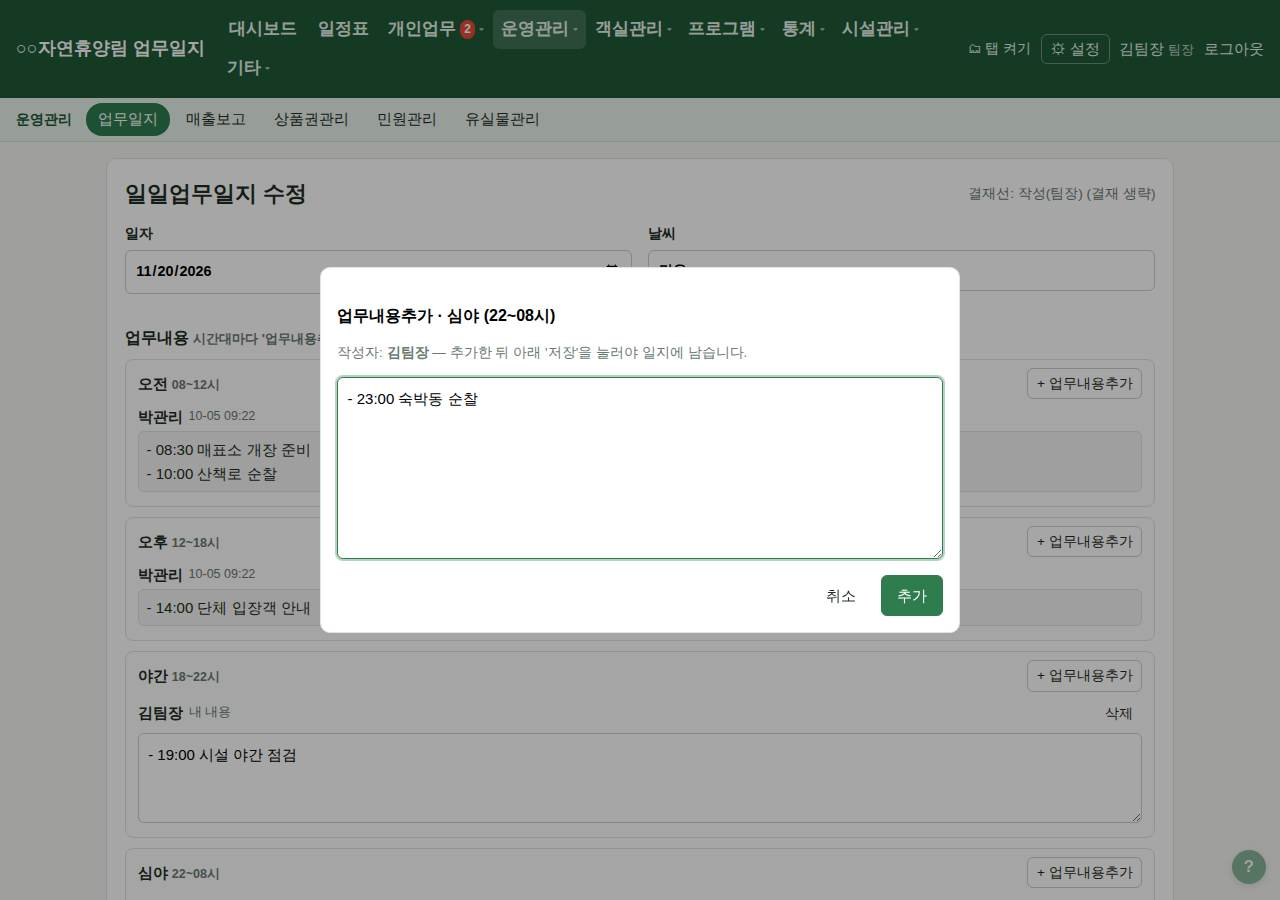
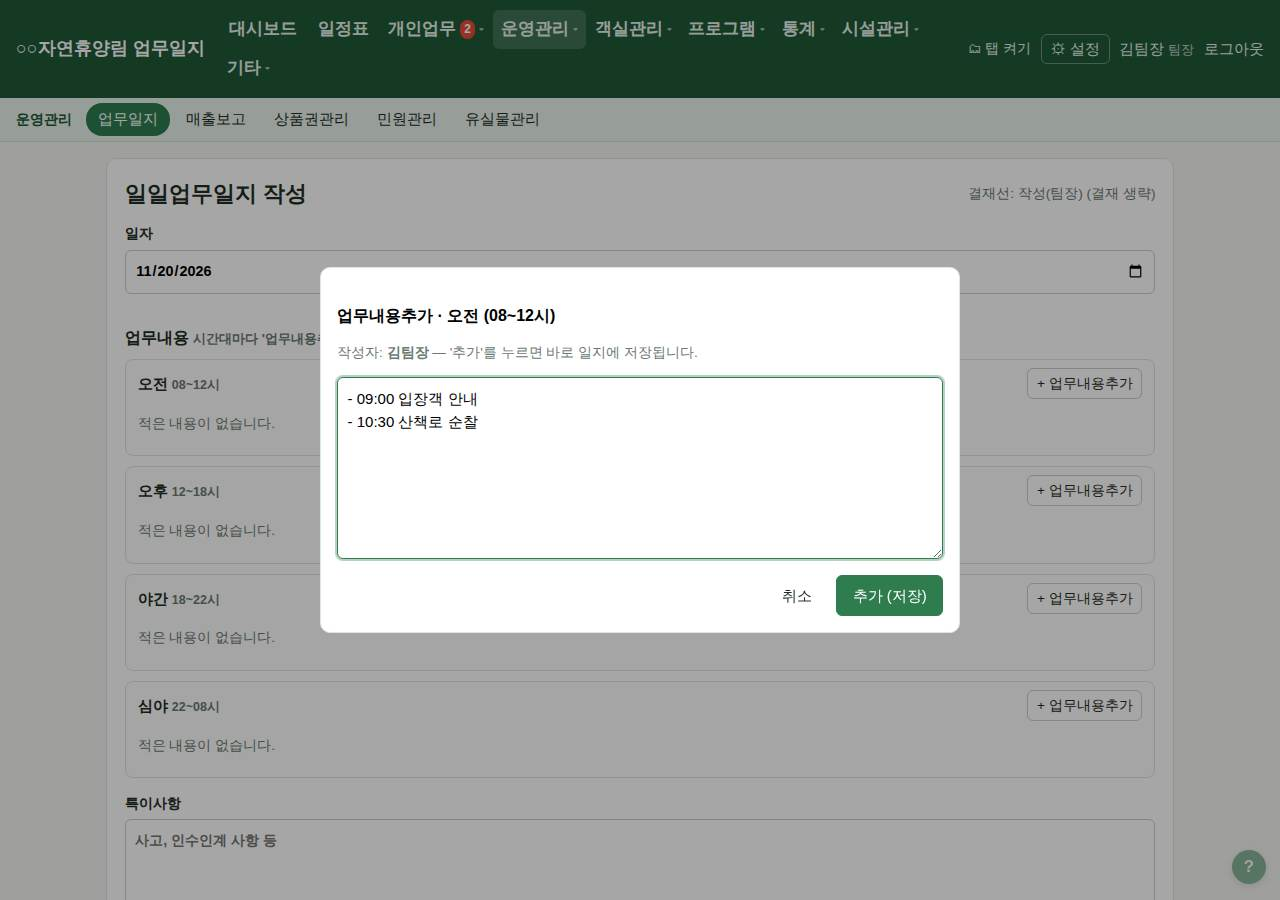
업무일지: 업무내용추가 창의 추가 = 바로 저장, 임시저장 버튼 이름 '저장'
Claude-Session: https://claude.ai/code/session_01Lr6yxKyasrSL9QLfMX5TX8

diff --git a/app/help.php b/app/help.php
@@ -135,11 +135,11 @@ HTML],
             ['id' => 'daily', 'title' => '업무일지 · 민원 입력', 'keys' => ['daily'], 'img' => ['daily.jpg' => '업무일지 달력', 'daily_write.jpg' => '업무일지 작성 (시간대별 업무내용)', 'daily_add.jpg' => '업무내용추가 창'], 'body' => <<<'HTML'
 <ul>
   <li>업무일지는 <b>하루에 1건</b>입니다. 달력에서 날짜를 누르고 <b>+ 작성</b> — 그 날 일지가 이미 있으면 그 일지를 이어서 쓰는 화면으로 갑니다. 특이사항을 입력하고, 임시저장은 모든 직원이 이어서 고칠 수 있습니다.</li>
-  <li><b>업무내용</b>은 <b>오전(08~12시) · 오후(12~18시) · 야간(18~22시) · 심야(22~08시)</b>로 나뉩니다. 시간대의 <b>+ 업무내용추가</b>를 누르면 창이 떠서 로그인한 본인 이름으로 업무내용을 적습니다 (1개 이상 필수).
+  <li><b>업무내용</b>은 <b>오전(08~12시) · 오후(12~18시) · 야간(18~22시) · 심야(22~08시)</b>로 나뉩니다. 시간대의 <b>+ 업무내용추가</b>를 누르면 창이 떠서 로그인한 본인 이름으로 업무내용을 적고, 창의 <b>추가</b>를 누르면 <b>바로 저장</b>됩니다 (1개 이상 필수).
     다른 사람이 쓴 내용은 이름과 함께 고칠 수 없는 글로 보이고, 본인이 쓴 내용만 고치거나 삭제할 수 있습니다. 예전에 쓴 일지는 예전처럼 한 칸으로 고칩니다.</li>
   <li><b>민원</b>: '+ 민원 추가'로 여러 건. 대분류(단순문의·요청·불편·불만·긴급·안전) → 중분류 → 소분류, 접수경로, 장소(객실·시설), 내용, 건수, 처리상태·처리일자, 조치내용.
     긴급·안전은 빨간 줄로 표시됩니다.</li>
-  <li><b>임시저장</b> 또는 <b>결재 올리기</b>. <b>결재 올리기는 공무직 이상</b>이 합니다 — 사원은 임시저장까지 하고, 결재를 올린 뒤(결재중·반려·결재완료)의 일지는 <b>공무직 이상만 수정</b>할 수 있습니다.
+  <li><b>저장</b>(임시저장) 또는 <b>결재 올리기</b>. <b>결재 올리기는 공무직 이상</b>이 합니다 — 사원은 저장까지 하고, 결재를 올린 뒤(결재중·반려·결재완료)의 일지는 <b>공무직 이상만 수정</b>할 수 있습니다.
     달력에 작성자와 상태 색이 표시되고, 수정된 문서에는 ✎ 가 붙습니다.</li>
 </ul>
 HTML],

diff --git a/app/daily.php b/app/daily.php
@@ -137,9 +137,9 @@ function daily_form(?array $journal, array $user): void
 <dialog class="daily-dialog" data-entry-dialog>
   <!-- 작성 화면의 큰 form 안이라 form 을 겹치지 않고 버튼으로 닫는다 -->
   <h3>업무내용추가 · <span data-dialog-slot></span></h3>
-  <p class="small muted">작성자: <b><?= e($user['name']) ?></b> — 추가한 뒤 아래 '저장'을 눌러야 일지에 남습니다.</p>
+  <p class="small muted">작성자: <b><?= e($user['name']) ?></b> — '추가'를 누르면 바로 일지에 저장됩니다.</p>
   <textarea rows="7" data-dialog-text placeholder="- 09:00 입장객 안내&#10;- 10:30 산책로 순찰"></textarea>
-  <div class="actions"><button type="button" class="btn ghost" data-dialog-cancel>취소</button><button type="button" class="btn primary" data-dialog-ok>추가</button></div>
+  <div class="actions"><button type="button" class="btn ghost" data-dialog-cancel>취소</button><button type="button" class="btn primary" data-dialog-ok>추가 (저장)</button></div>
 </dialog>
 <script>
 (function () {
@@ -178,6 +178,12 @@ function daily_form(?array $journal, array $user): void
     box.querySelector('textarea').value = text;
     root.querySelector('.daily-slot[data-slot="' + slot + '"] .daily-entries').insertBefore(box, root.querySelector('.daily-slot[data-slot="' + slot + '"] .daily-empty'));
     refresh();
+    // 추가하면 바로 저장 (결재 올린 뒤 고치는 경우는 결재 초기화 확인 후)
+    const form = root.closest('form');
+    const save = form && form.querySelector('button[name=action][value=save]');
+    const resubmit = form && form.querySelector('button[name=action][value=submit]');
+    if (save) form.requestSubmit ? form.requestSubmit(save) : save.click();
+    else if (resubmit && confirm('저장하면 결재 상태가 초기화되고 처음부터 다시 결재를 받습니다. 저장할까요?')) form.requestSubmit ? form.requestSubmit(resubmit) : resubmit.click();
   });
   refresh();
 })();

diff --git a/write.php b/write.php
@@ -133,7 +133,8 @@ if (is_post()) {
             journal_submit(journal_find($id), (int) $user['rank_level']); // 결재선은 결재를 올린 사람 기준
             flash('결재를 올렸습니다.', 'success');
         } else {
-            flash($canSubmit ? '임시저장했습니다. 결재 올리기를 눌러야 결재가 진행됩니다.' : '임시저장했습니다. 결재 올리기는 공무직 이상이 합니다.', 'info');
+            $saved = $type === 'daily' ? '저장했습니다.' : '임시저장했습니다.';
+            flash($saved . ($canSubmit ? ' 결재 올리기를 눌러야 결재가 진행됩니다.' : ' 결재 올리기는 공무직 이상이 합니다.'), 'info');
         }
         // 작성·수정 기록 (결재와 별개)
         $cplCount = count($payload['complaints'] ?? []);
@@ -231,7 +232,7 @@ if ($type === 'rooms') rooms_fill_panel($workDate, $journal, $fillRep);
       <button class="btn primary" name="action" value="submit" onclick="return confirm('결재 상태가 초기화되고 처음부터 다시 결재를 받습니다. 저장할까요?')">
         수정 저장 · <?= $line ? '결재 다시 올리기' : '결재완료' ?></button>
     <?php else: ?>
-      <button class="btn" name="action" value="save">임시저장</button>
+      <button class="btn" name="action" value="save"><?= $type === 'daily' ? '저장' : '임시저장' ?></button>
       <?php if ($canSubmit): ?><button class="btn primary" name="action" value="submit"><?= $line ? '결재 올리기' : '저장(결재완료)' ?></button><?php endif ?>
     <?php endif ?>
   </div>

diff --git a/app/changelog.php b/app/changelog.php
@@ -7,6 +7,10 @@ defined('APP_ROOT') || exit;
  *   ['date' => 'YYYY-MM-DD', 'title' => '한 줄 요약', 'items' => ['자세한 내용', ...], 'menu' => '관련 메뉴(선택)']
  */
 const CHANGELOG = [
+    ['date' => '2026-10-05', 'title' => '업무일지: 업무내용추가 창에서 바로 저장, 저장 버튼', 'menu' => '운영관리', 'items' => [
+        "업무내용추가 창에서 '추가'를 누르면 따로 저장을 누르지 않아도 바로 일지에 저장됩니다 (결재를 올린 뒤 고치는 경우는 결재 초기화 확인 후 저장).",
+        "일일업무일지 작성 화면의 '임시저장' 버튼 이름을 '저장'으로 바꿨습니다 (결재 전 상태로 저장되는 것은 같습니다).",
+    ]],
     ['date' => '2026-10-05', 'title' => '업무일지: 결재 올리기·결재 후 수정은 공무직 이상, 날씨 칸 삭제', 'menu' => '운영관리', 'items' => [
         '업무일지 결재 올리기는 공무직 이상만 합니다. 사원은 업무내용을 적고 임시저장까지 합니다.',
         '결재를 올린 업무일지(결재중·반려·결재완료)는 공무직 이상만 수정할 수 있습니다. 사원은 볼 수만 있습니다.',
